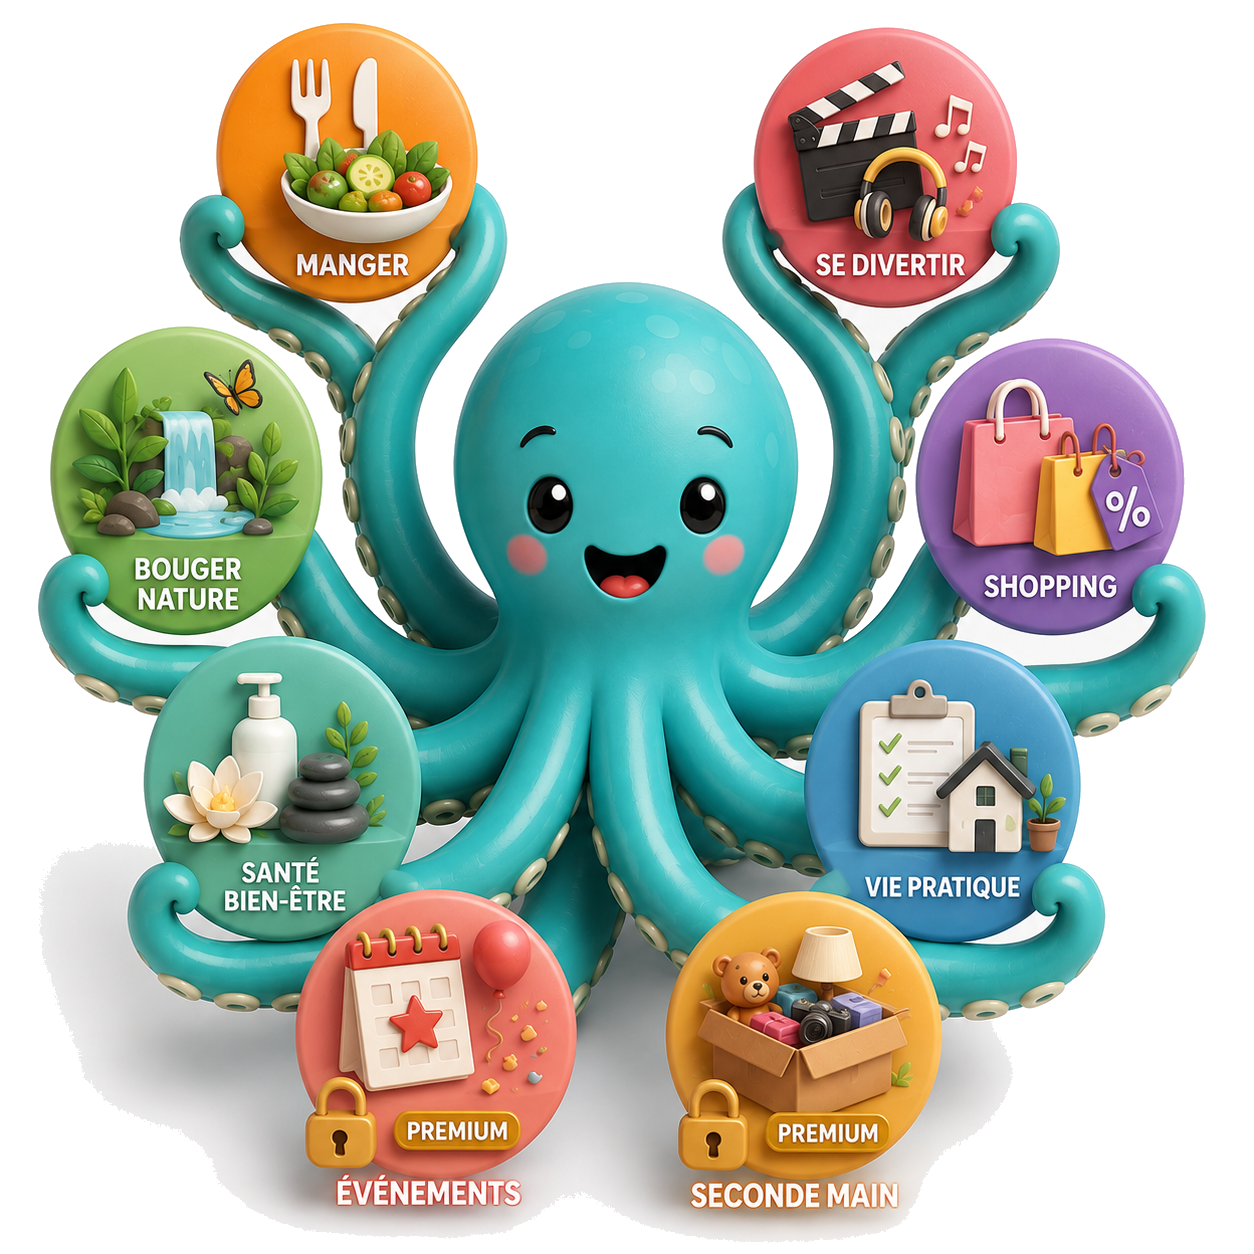
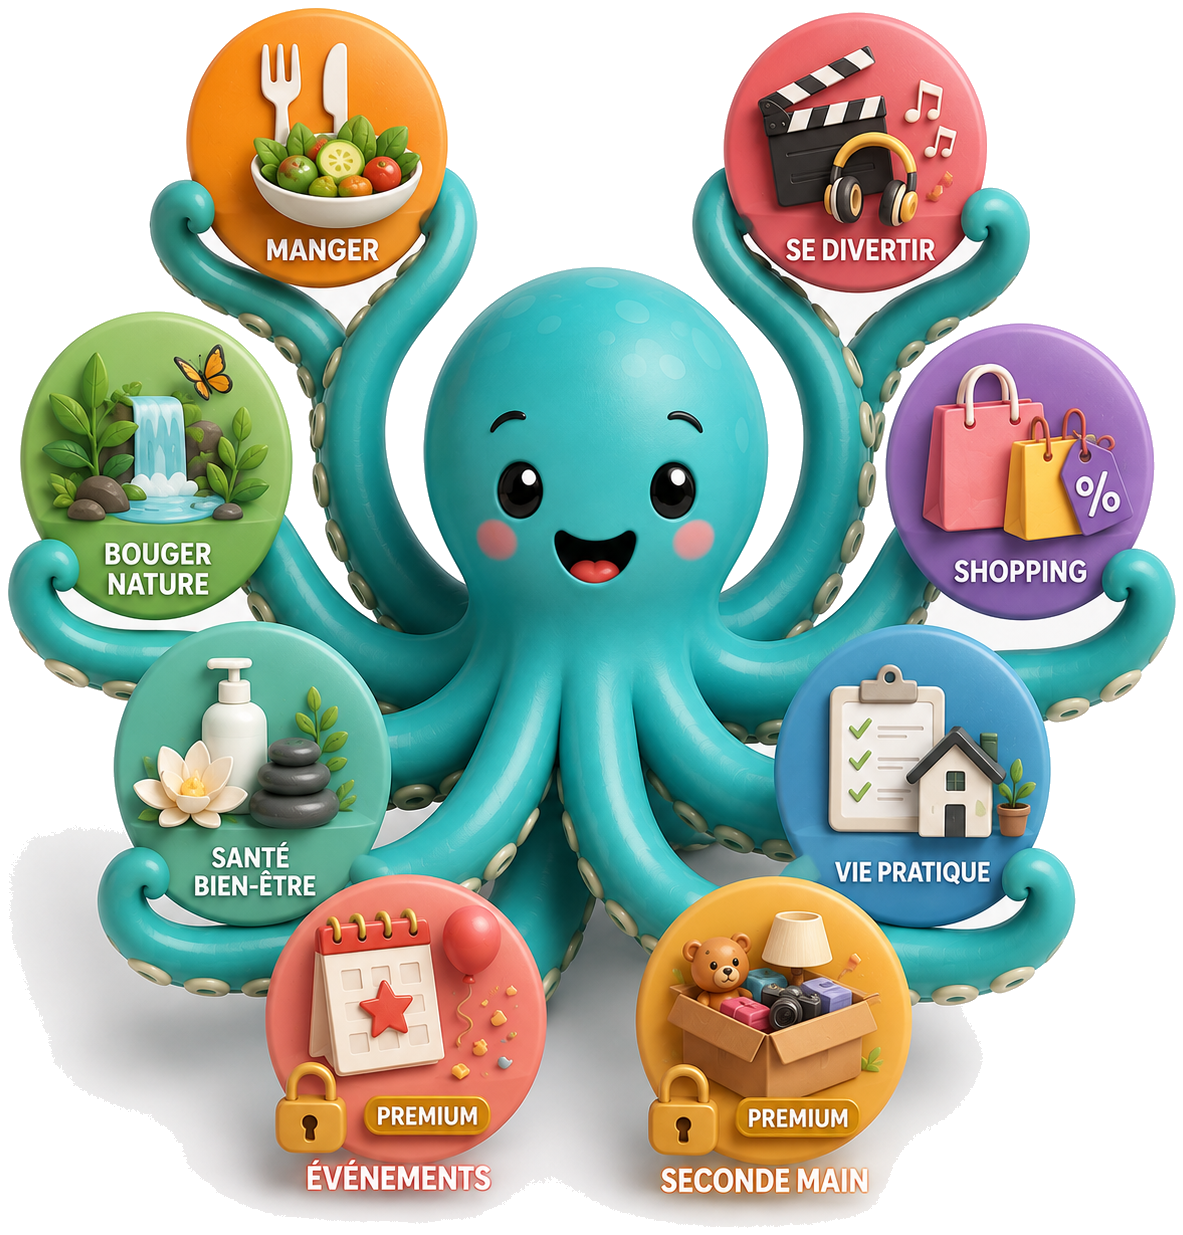
Menu univers : bulles plus grandes (image bord à bord + recadrage)
Image /menu-univers.png recadrée au plus près du contenu et affichée
pleine largeur sur mobile → bulles + libellés ~15% plus grands, plus
lisibles. Hotspots recalés sur le nouveau cadrage.

diff --git a/web/app/DirectoryClient.tsx b/web/app/DirectoryClient.tsx
@@ -264,14 +264,14 @@ const UMBRELLA_BY_KEY: Record<string, (typeof LIFESTYLE)[number]> = Object.fromE
 // Zones cliquables du menu illustré (/menu-univers.png) : centre + rayon en % de
 // l'image, calés sur chaque badge tenu par le poulpe.
 const UNIVERS_HOTSPOTS: { key: string; cx: number; cy: number; r: number }[] = [
-  { key: "manger", cx: 28, cy: 13, r: 11 },
-  { key: "sortir", cx: 71, cy: 14, r: 11 },
-  { key: "bouger", cx: 16, cy: 39, r: 11 },
-  { key: "shopping", cx: 84, cy: 40, r: 11 },
-  { key: "sante-bien-etre", cx: 23, cy: 64, r: 11 },
-  { key: "pratique", cx: 77, cy: 65, r: 11 },
-  { key: "evenements", cx: 35, cy: 83, r: 11 },
-  { key: "seconde-main", cx: 65, cy: 84, r: 11 },
+  { key: "manger", cx: 27, cy: 12, r: 12 },
+  { key: "sortir", cx: 73, cy: 13, r: 12 },
+  { key: "bouger", cx: 14, cy: 38, r: 12 },
+  { key: "shopping", cx: 87, cy: 39, r: 12 },
+  { key: "sante-bien-etre", cx: 22, cy: 64, r: 12 },
+  { key: "pratique", cx: 79, cy: 65, r: 12 },
+  { key: "evenements", cx: 35, cy: 83, r: 12 },
+  { key: "seconde-main", cx: 66, cy: 84, r: 12 },
 ];
 
 // Tuile d'entrée du menu d'accueil (Option A) : icône (Phosphor ou image) + titre + sous-titre.
@@ -1244,8 +1244,9 @@ export default function DirectoryClient({ businesses }: { businesses: Business[]
               >
                 ← Menu
               </button>
-              {/* Menu illustré : le poulpe tient un badge par univers, chacun cliquable. */}
-              <div className="relative w-full max-w-[540px] mx-auto">
+              {/* Menu illustré : le poulpe tient un badge par univers, chacun cliquable.
+                  Bord à bord sur mobile (bulles plus grandes), centré sur desktop. */}
+              <div className="relative -mx-4 w-[calc(100%+2rem)] sm:mx-auto sm:w-full sm:max-w-[560px]">
                 {/* eslint-disable-next-line @next/next/no-img-element */}
                 <img src="/menu-univers.png" alt="Choisir un univers" className="w-full select-none" draggable={false} />
                 {UNIVERS_HOTSPOTS.map((hs) => {
